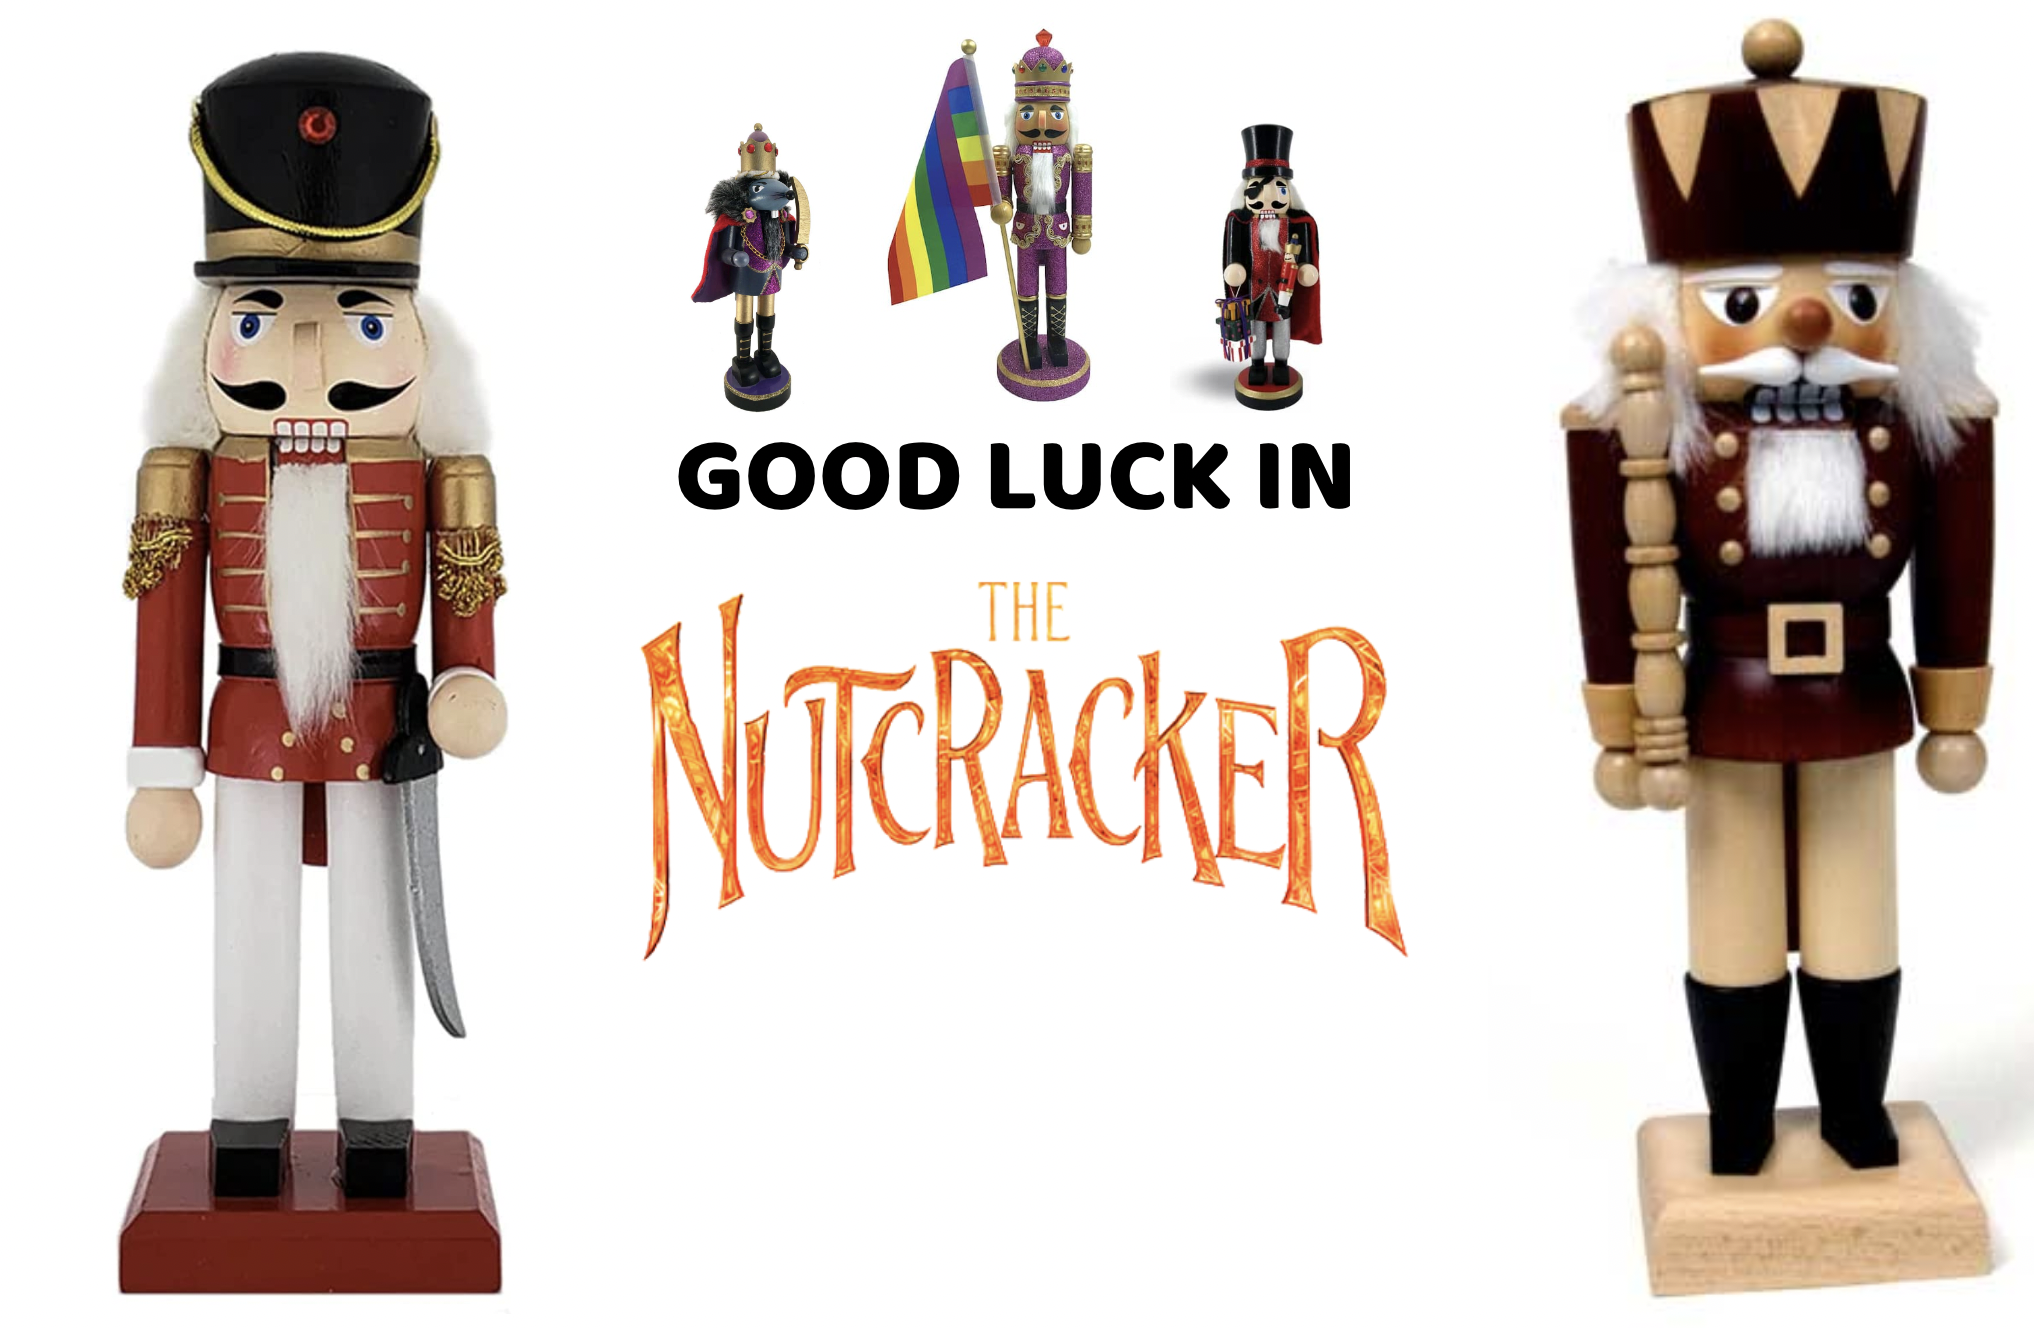
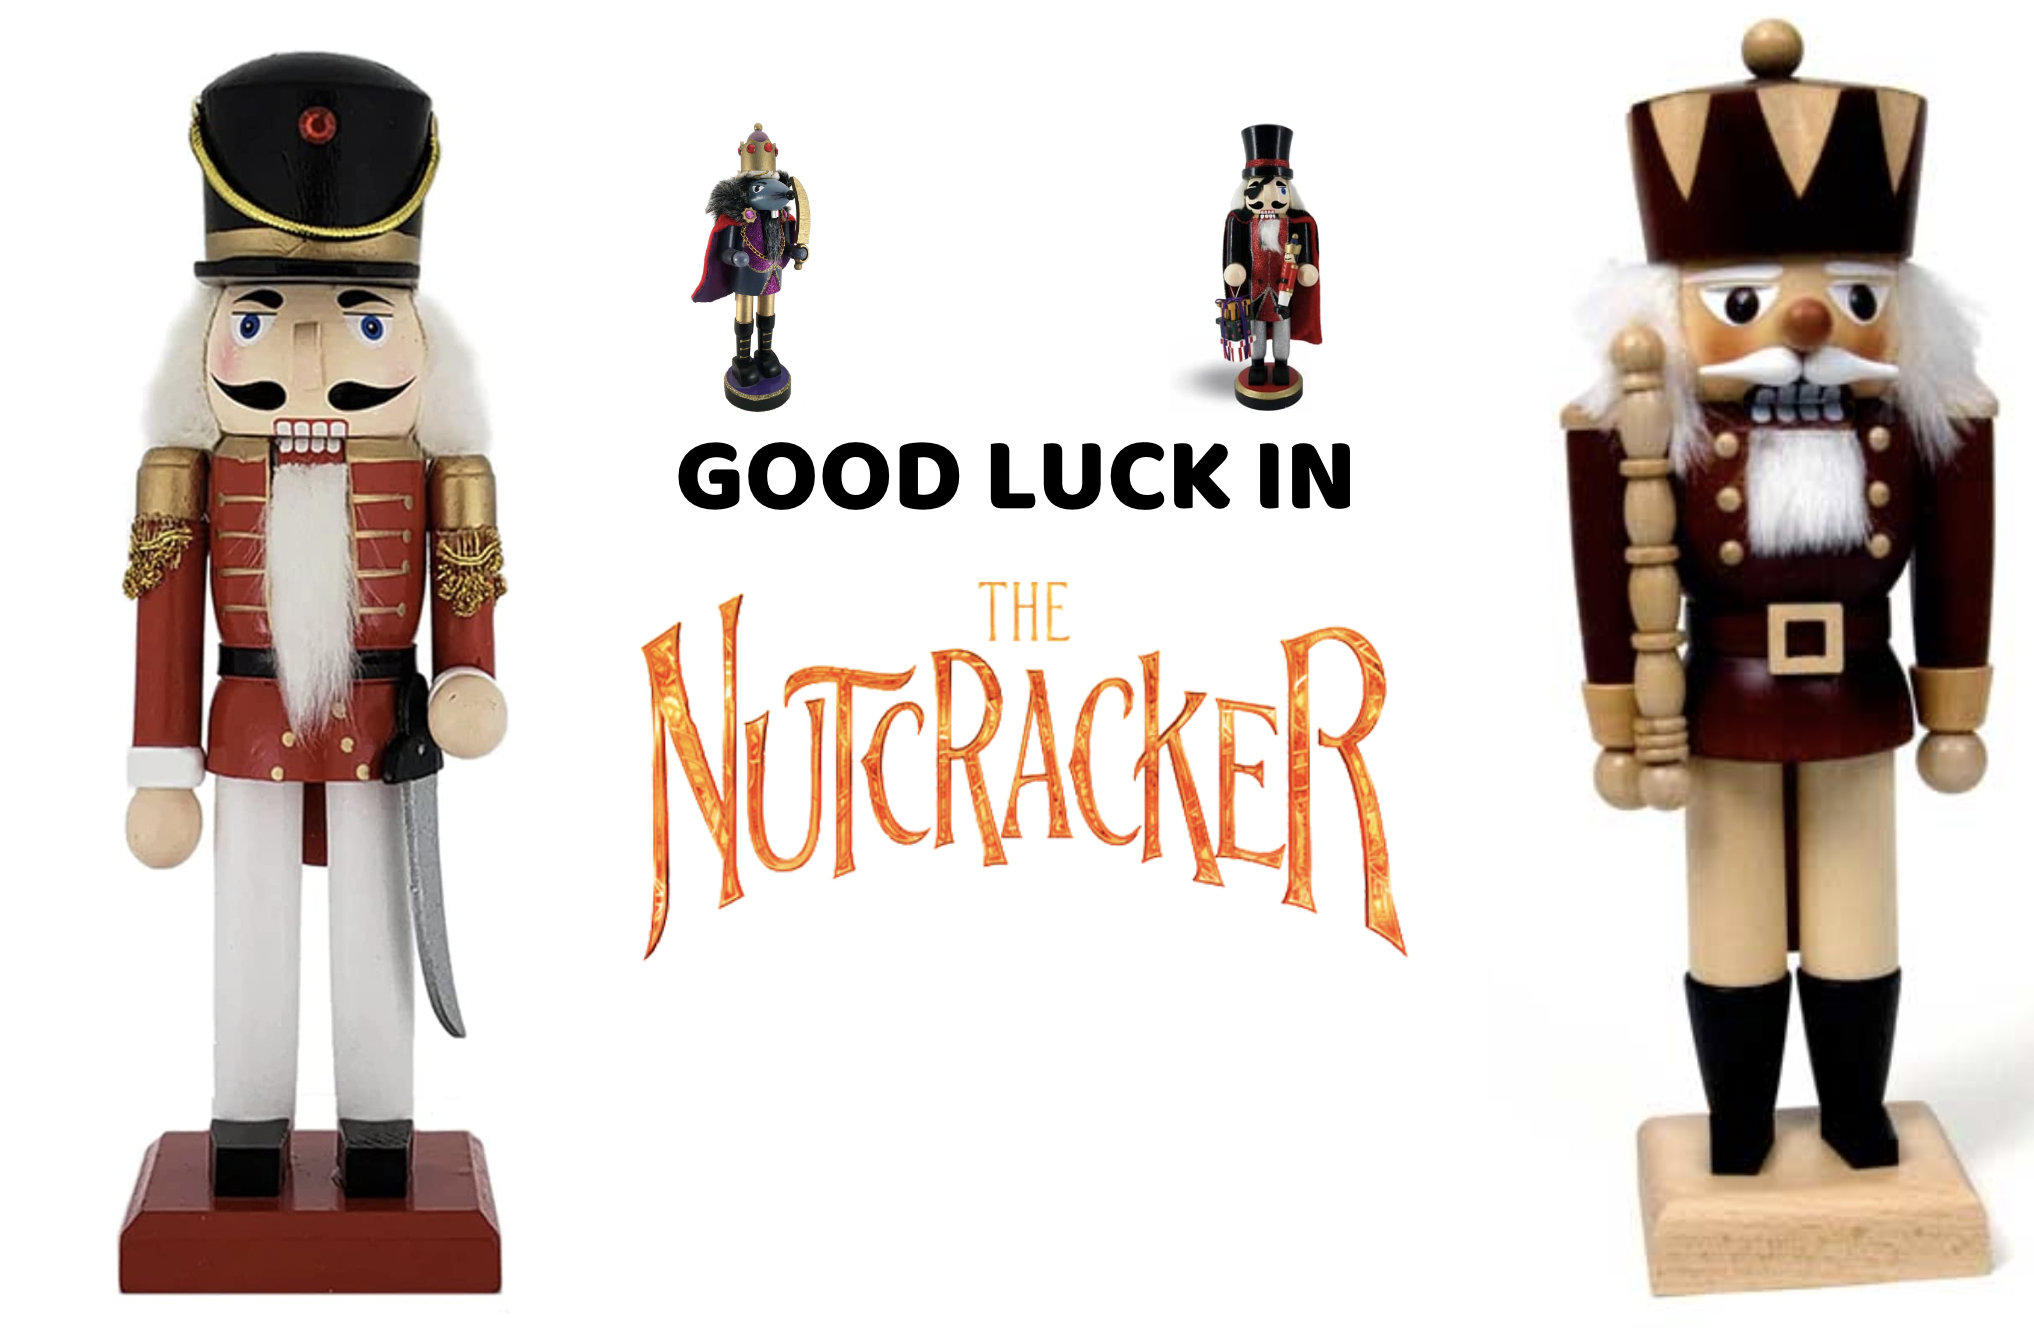
I added another project.

Changed region(s): [[0.4336, 0.0309, 0.5575, 0.3087]]

diff --git a/Journal.html b/Journal.html
@@ -66,6 +66,15 @@
 <p>
 	<a>Journal Entry 3 - Sunday October 16th</a>
 	<br> I just finished making a CSS animation and it was really fun! I didn't really encounter too many problems in making it. The one question that I have after making the animation is how to layer to divs in html. I tried to look a bit online and I didn't really get it. Despite that, I think that this was a very fun and I can't wait to do it again!
+</p>
+<p>
+	<a>Journal Entry 4 - Friday December 1st</a>
+	<br> I recently completed making both the card project and the music project. I decided to complete both these projects in one. I made a card for my sister saying good luck in the nutcracker. I ran into a small problem in terms of the music, but after a lab with Molly I fixed it. This was a super fun project!
+</p>
+<p>
+	<a>Journal Entry 5 - Friday December 1st</a>
+	<br> My third project was the square quilt project. For this one I had to figure out how to do a list in something that repeated. While at first I had no idea how to do that, after some research on W3Schools, I managed to make a list of colors that changed depending on the "i" value. Once again, this was increadibly fun and I can't wait for the next project. 
+</p>
 </body>
 
 

diff --git a/MouseFollower.html b/MouseFollower.html
@@ -1,0 +1,50 @@
+<!DOCTYPE html>
+<html>
+<head>
+	<title>Follow The Mouse</title>
+	<style type="text/css">
+		body{
+			background-color: black;
+		}
+		 
+		#box{
+			width:100px;
+			height:100px;
+			background-size:contain;
+			background-repeat: no-repeat;
+			background-image:url(https://i.pinimg.com/originals/78/0a/a2/780aa264e6ec4014edea4beb159eef51.gif);
+			position:absolute;
+			transition: 1s;
+		}
+
+		#person{
+			width:100px;
+			height:100px;
+			background-size:contain;
+			background-repeat: no-repeat;
+			background-image:url(person.svg.png);
+			position:absolute;
+			transition: 0s;
+		}
+
+	</style>
+</head>
+<body>
+	<div id="box"></div>
+	<div id="person"></div>
+	<script type="text/javascript">
+		document.addEventListener("mousemove", function (event){
+				console.log(event.clientX, event.clientY);
+				person.style.left = event.clientX -40  + "px";
+				person.style.top = event.clientY -50+ "px";
+			}
+		);
+		document.addEventListener("mousemove", function (event){
+				console.log(event.clientX, event.clientY);
+				box.style.left = event.clientX -50 + "px";
+				box.style.top = event.clientY -50 + "px";
+			}
+		);
+	</script>
+</body>
+</html>

diff --git a/array.html b/array.html
@@ -1,0 +1,47 @@
+<!DOCTYPE html>
+<html>
+<head>
+	<title></title>
+	<style type="text/css">
+		#square{
+			font-size: 40px;
+		}
+		#asquare{
+			font-size: 40px;
+		}
+		#bsquare{
+			font-size: 40px;
+		}
+	</style>
+</head>
+<body>
+<center>
+	<div id="square"></div>
+	<div id="asquare"></div>
+	<div id="bsquare"></div>
+	<div id="win"></div>
+</center>
+	<script type="text/javascript">
+		
+		
+
+		var breakfast = ["pancakes", "waffles", "coffee", "bacon", "cereal", "french toast"]
+
+		console.log(breakfast[2])
+
+		document.addEventListener("click", function(){
+			win.innerText = " "
+			var crandom = Math.round(Math.random()*5)
+			var arandom = Math.round(Math.random()*5)
+			var brandom = Math.round(Math.random()*5)
+			square.innerText = breakfast[crandom]
+			asquare.innerText = breakfast[arandom]
+			bsquare.innerText = breakfast[brandom]
+			if (crandom=arandombrandom){
+					win.innerText = "You Win!"
+			}
+			
+		})
+	</script>
+</body>
+</html>

diff --git a/Projects.html b/Projects.html
@@ -56,9 +56,10 @@
 	</div>
 	<a class="projects" href ="project1.html"> Project #1 </a>
 	<br>
-	<a class="projects" href ="file:///Users/c26ok/Desktop/c26ok.github.io/musiccardproject.html"> Project #2 </a>
+	<a class="projects" href ="file:///Users/c26ok/Desktop/c26ok.github.io/musiccardproject.html"> Card/MUSIC Project </a>
 	<br>
 	<a class="projects" href ="file:///Users/c26ok/Desktop/c26ok.github.io/squarequilt.html"> Project #3 </a>
+	<a class="projects" href ="file:///Users/c26ok/Desktop/c26ok.github.io/MouseFollower.html"> Project #4 </a>
 	
 </body>
 
